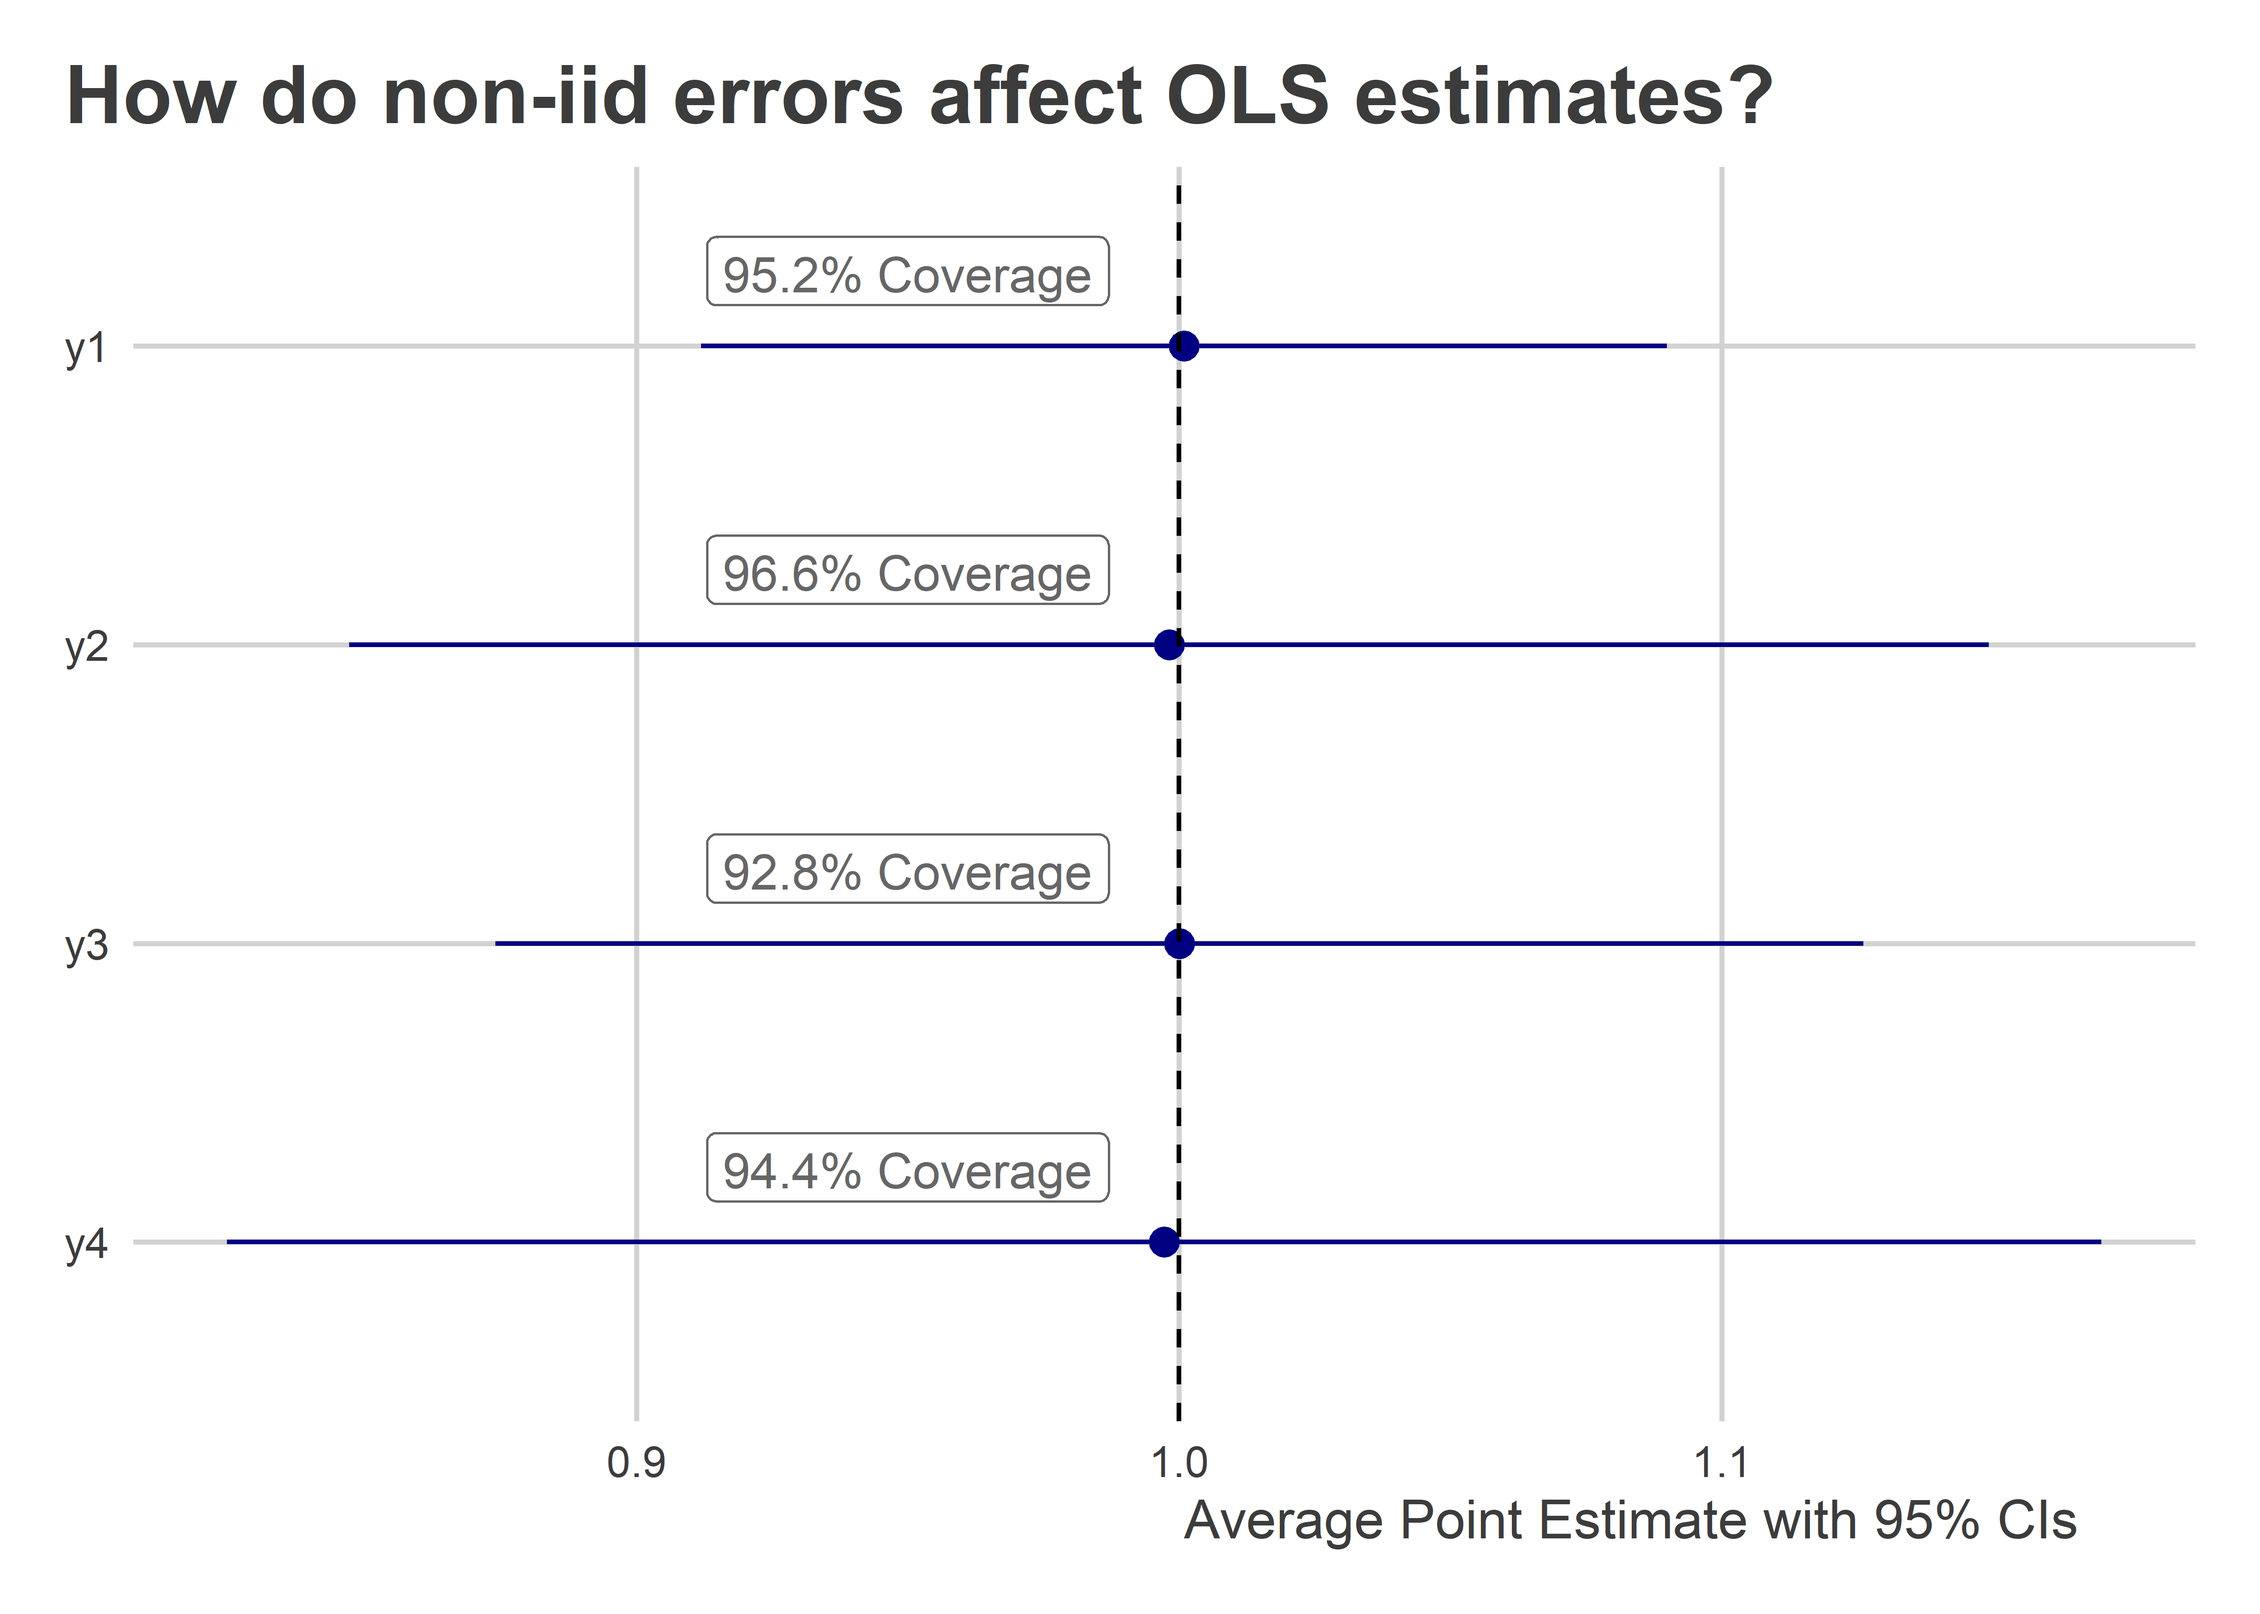
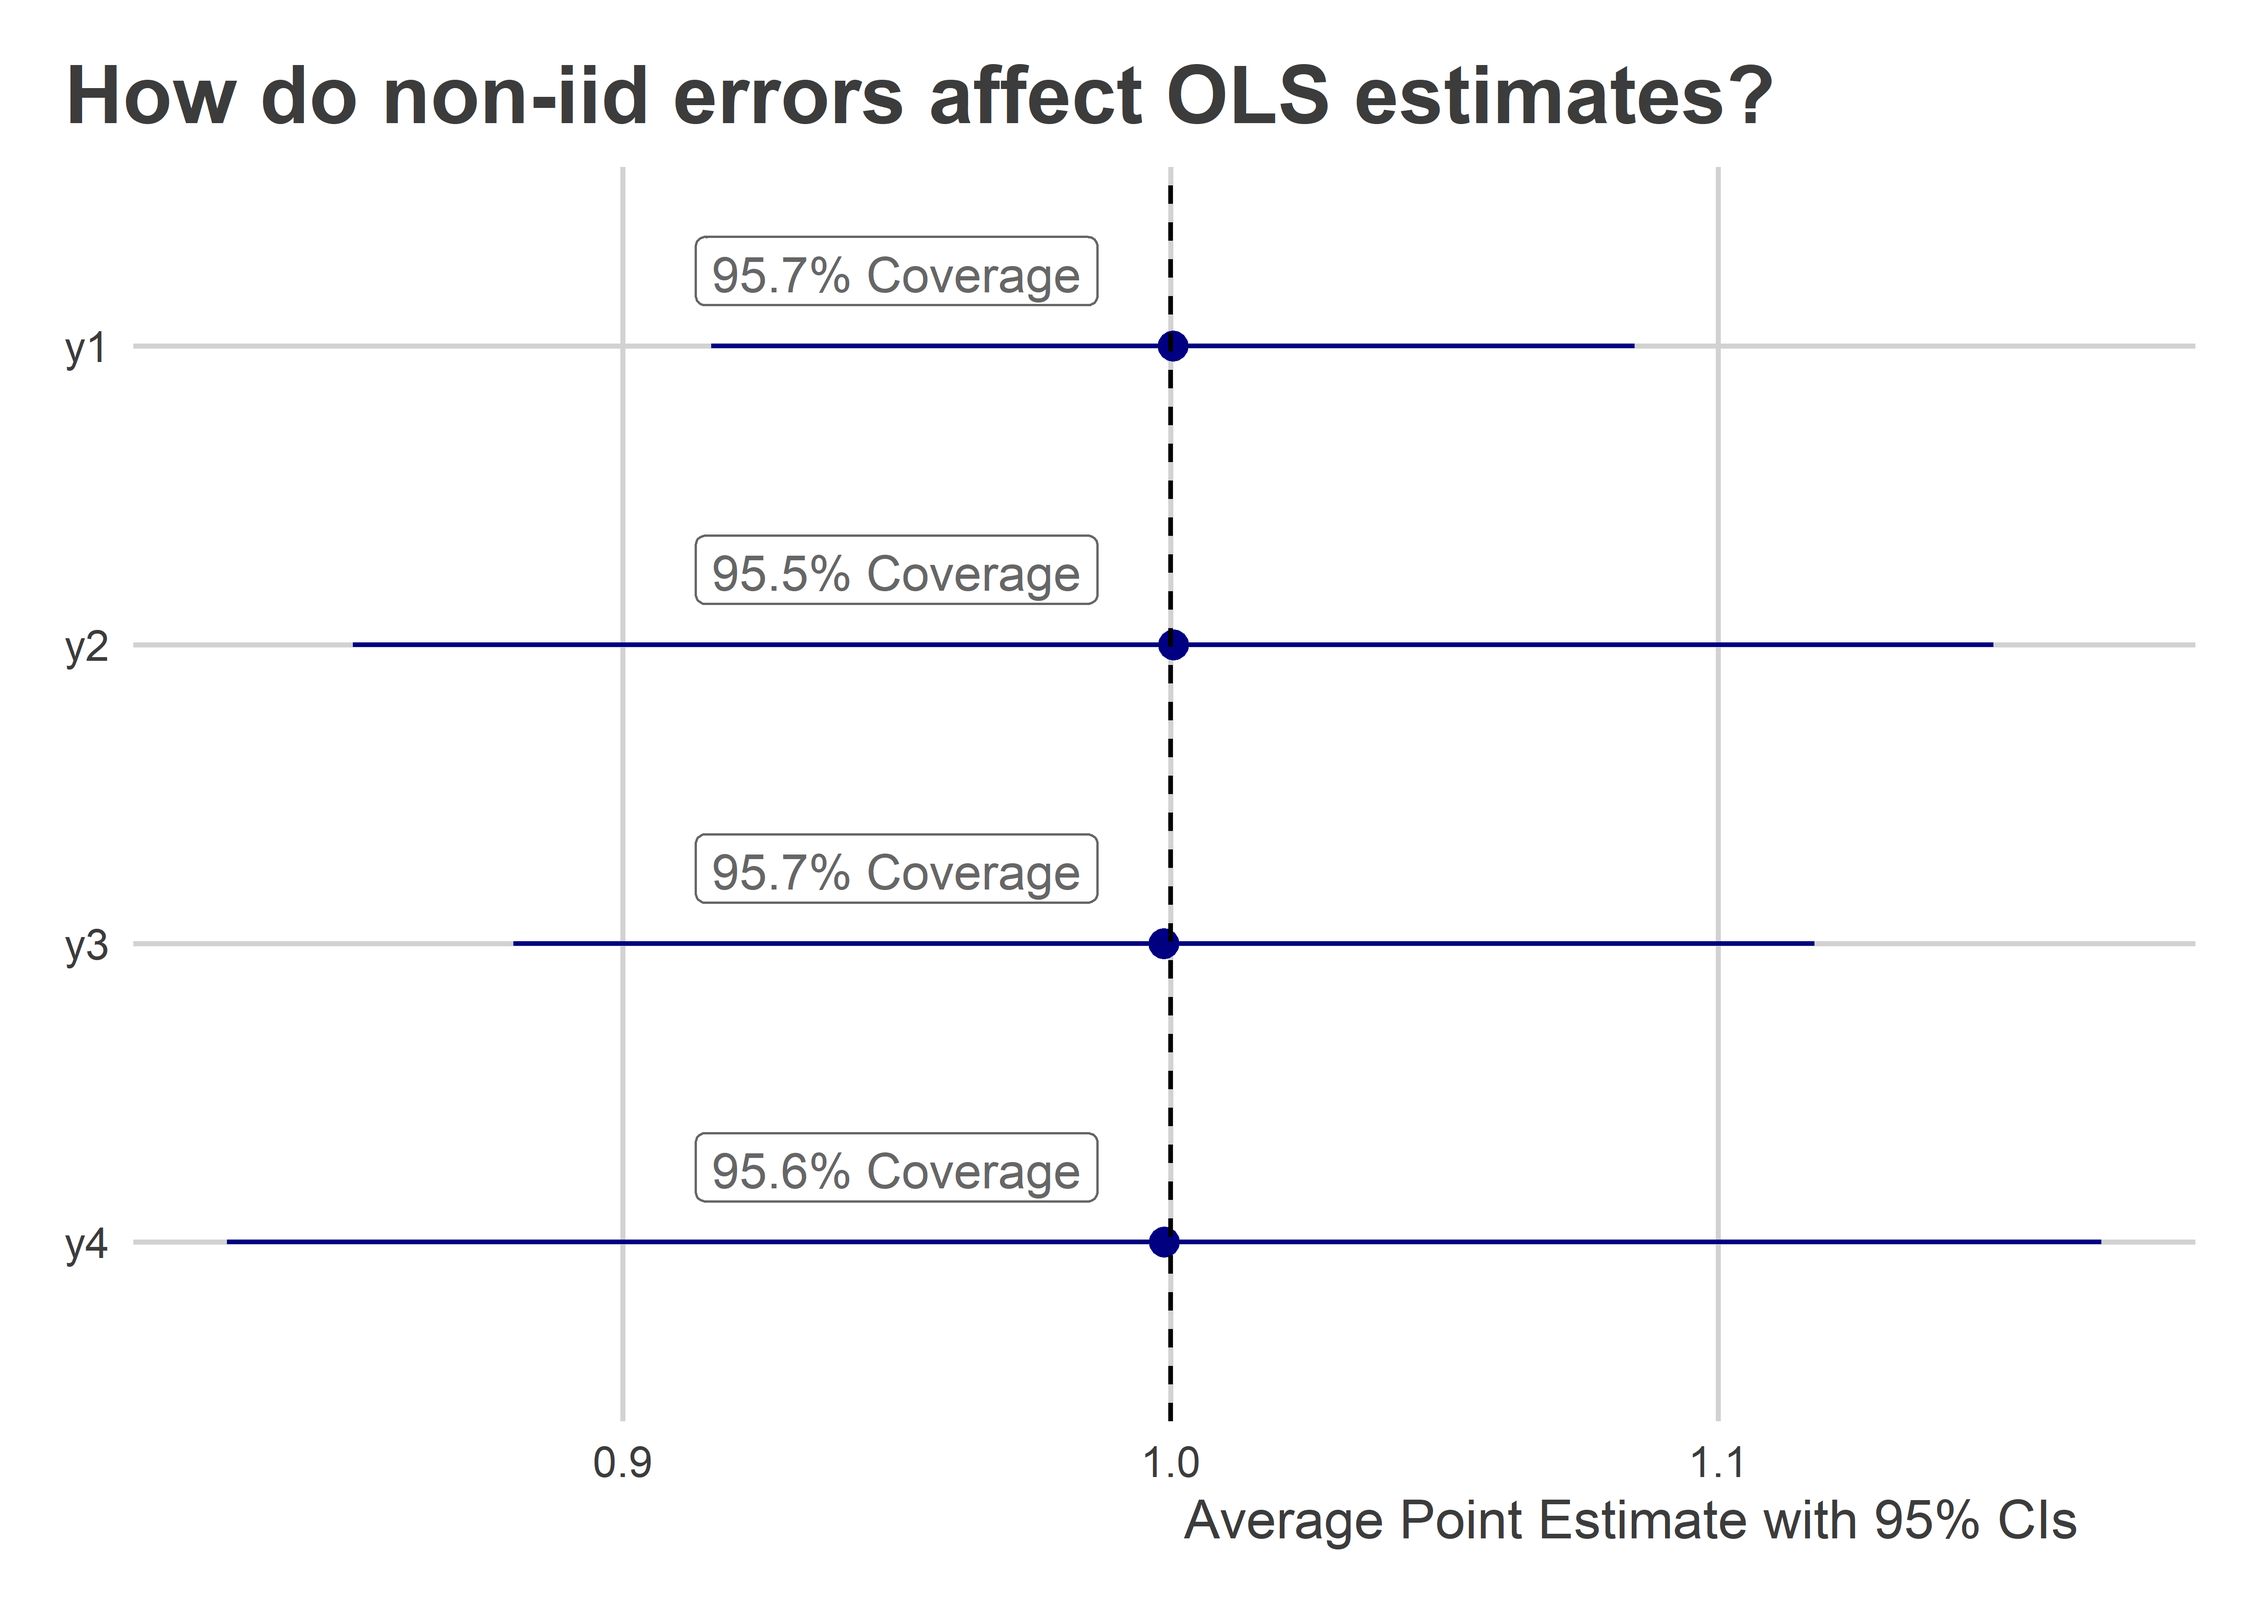
does this fix the math?

diff --git a/_posts/2023-10-04-ols-and-iid.md b/_posts/2023-10-04-ols-and-iid.md
@@ -87,14 +87,14 @@ assumptions 3-5 are not necessary for obtaining an unbiased estimate of
 the slope ($\beta_1$) and intercept ($\beta_0$). As long as we have good
 data and a linear additive functional form is the best model for the
 outcome, using OLS to estimate the model will give us a good fit for the
-expected value or conditional mean of $y_i$. Of course, if we cared
+expected value or conditional mean of $$y_i$$. Of course, if we cared
 about getting observation-specific predictions, this would be a
 different story, but this rarely is a concern in most quantitative
 scientific research.
 
 Assumptions 3-5 *are* important if we care about making good statistical
 inferences. That is, if we want to have unbiased estimates of
-$\text{var}(\beta_1)$ and $\text{var}(\beta_0)$, then we should care
+$$\text{var}(\beta_1)$$ and $$\text{var}(\beta_0)$$, then we should care
 about assumptions 3-5.
 
 Thankfully, we don’t have to change anything about the way we estimate
@@ -120,20 +120,20 @@ To quickly show that violations of 3-5 don’t matter for model fit (e.g.,
 bias), let’s run a simple simulation. The below code simulates multiple
 draws from four data-generating processes for an outcome $y_i$:
 
-1.  $y_i = x_i + \epsilon_i$; $\epsilon_i \sim \mathcal{N}(0, 1)$
+1.  $$y_i = x_i + \epsilon_i$$; $$\epsilon_i \sim \mathcal{N}(0, 1)$$
 
-2.  $y_i = x_i + \mu_i + \epsilon_i$;
-    $\epsilon_i \sim \mathcal{N}(0, 1)$ and
-    $\mu_i \sim [\mathcal{N}(0, 1)]^2$
+2.  $$y_i = x_i + \mu_i + \epsilon_i$$;
+    $$\epsilon_i \sim \mathcal{N}(0, 1)$$ and
+    $$\mu_i \sim [\mathcal{N}(0, 1)]^2$$
 
-3.  $y_i = x_i + \gamma_k + \epsilon_i$;
-    $\epsilon_i \sim \mathcal{N}(0, 1)$ and
-    $\gamma_k \sim [\mathcal{N}(0, 1)]^2$ for $K = 10$ clusters.
+3.  $$y_i = x_i + \gamma_k + \epsilon_i$$;
+    $$\epsilon_i \sim \mathcal{N}(0, 1)$$ and
+    $$\gamma_k \sim [\mathcal{N}(0, 1)]^2$$ for $$K = 10$$ clusters.
 
-4.  $y_i = x_i + \gamma_k + \mu_i + \epsilon_i$;
-    $\epsilon_i \sim \mathcal{N}(0, 1)$,
-    $\mu_i \sim [\mathcal{N}(0, 1)]^2$, and
-    $\gamma_k \sim [\mathcal{N}(0, 1)]^2$ for $K = 10$ clusters.
+4.  $$y_i = x_i + \gamma_k + \mu_i + \epsilon_i$$;
+    $$\epsilon_i \sim \mathcal{N}(0, 1)$$,
+    $$\mu_i \sim [\mathcal{N}(0, 1)]^2$$, and
+    $$\gamma_k \sim [\mathcal{N}(0, 1)]^2$$ for $$K = 10$$ clusters.
 
 In (1), the error term is independently distributed, has equal variance,
 and is normally distributed. In (2) non-normality (and thus also unequal
@@ -152,7 +152,7 @@ set_palette()
 ## draw multiple datasets from the possible dgps:
 simulate(
   ## no. of iterations and sample size
-  R = 500,
+  R = 1000,
   N = 500,
   
   ## the explanatory variable and unobserved errors
@@ -259,13 +259,13 @@ Now, we just need a simple visualization to report the output. The below
 figure shows the average of the model estimates along with the 95%
 confidence interval for the distribution of estimates. The coverage
 provided by the robust standard errors is indicated as well. For a test
-to reject the null at the standard $p < 0.05$ level, we should expect
+to reject the null at the standard $$p < 0.05$$ level, we should expect
 the coverage to be 95%. The results below show (1) negligible bias in
 model estimates, (2) that non-normal and non-independent errors increase
 the estimated variance of model estimates, and (3) despite the increase
 in variance the standard errors still have the appropriate coverage for
 a test to reliably reject the null with the correct false positive rate
-at the standard threshold of $p < 0.05$.
+at the standard threshold of $$p < 0.05$$.
 
 ``` r
 ggplot(sim_evl) +
